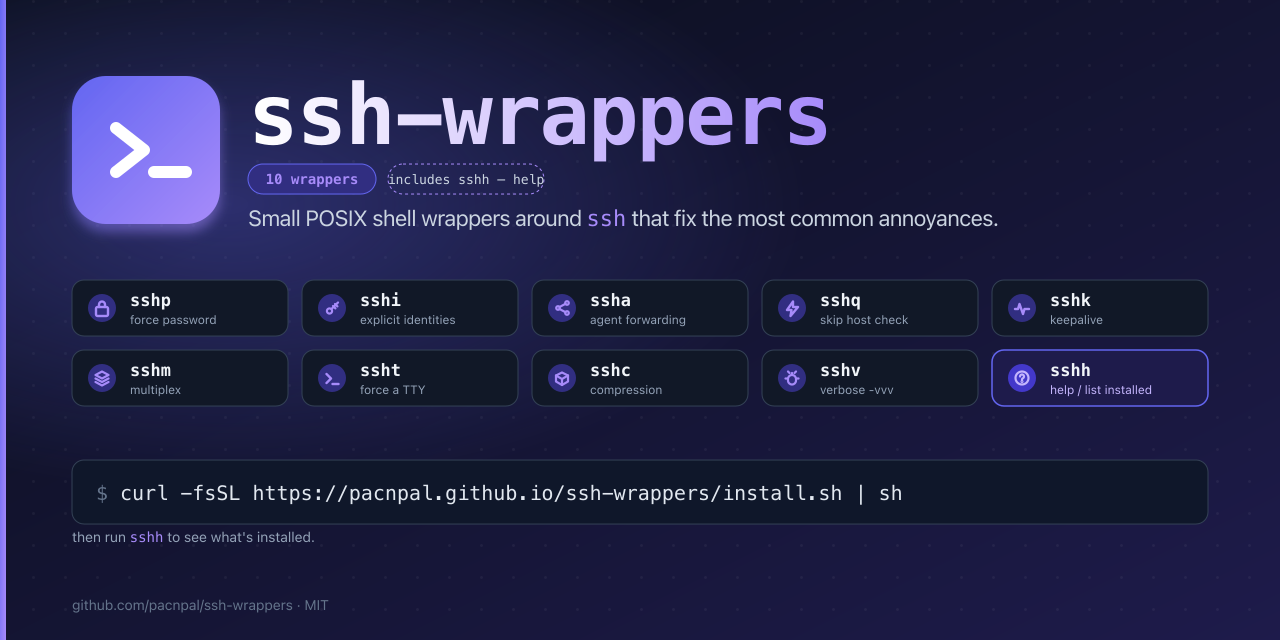
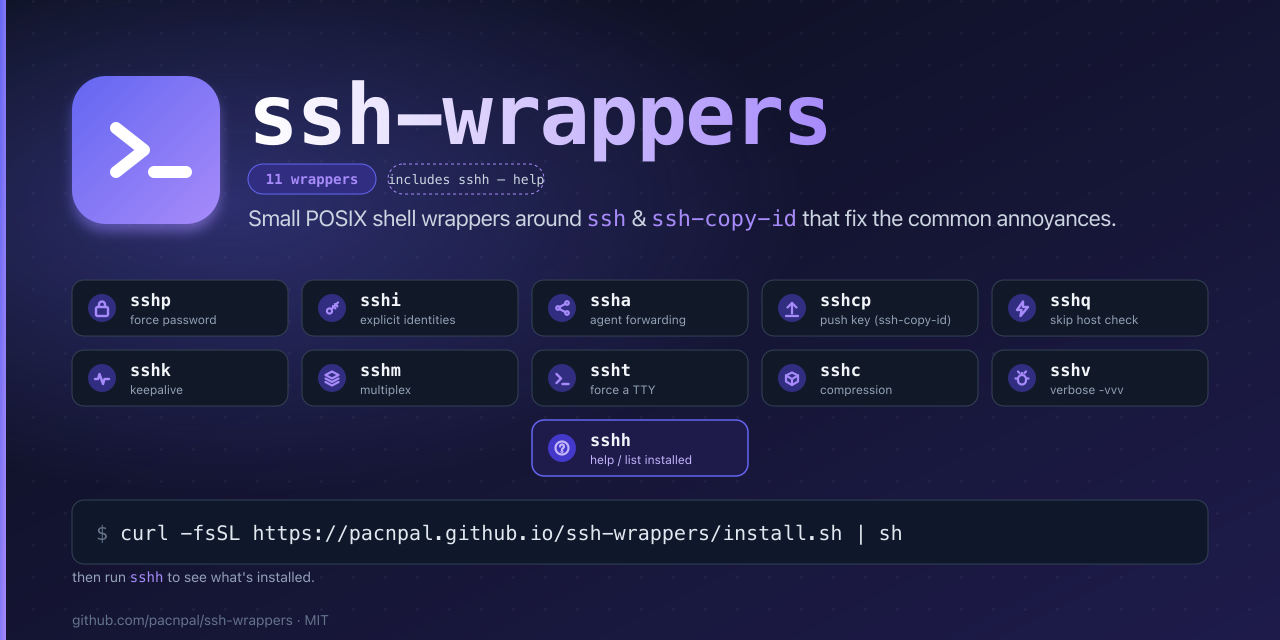
Update social card for 11 wrappers, document the step in CONTRIBUTING
Social-card.svg restructured to a 5+5+1 chip grid — auth row (sshp,
sshi, ssha, sshcp, sshq), conn/io/debug row, then sshh as a featured
centered chip in row 3. Pill text bumped to "11 wrappers", tagline
now mentions ssh-copy-id. Install bar / hint / footer slid down to
make room for row 3. PNG re-rendered with rsvg-convert.

CONTRIBUTING.md grows a section 6 with the full social-card workflow:
which SVG elements to touch, the chip XML template, the re-render
command, the dimension check, and the warning that this is the file
people forget — leaving the PNG stale silently breaks every OG preview.

diff --git a/CONTRIBUTING.md b/CONTRIBUTING.md
@@ -142,7 +142,49 @@ The landing page is hand-maintained HTML; there's no template. Be careful — th
 
 If you added a new category (rare — see "Pick a category" above), also update the `.cats` strip near the top of the body.
 
-### 6. `.github/workflows/shellcheck.yml`
+### 6. `assets/social-card.svg` + re-render `assets/social-card.png`
+
+This is the file most contributors forget. The social card is the 1280×640 image GitHub and Twitter show as the OG preview, and it visibly lists every wrapper as a chip — so missing it means a stale image ships everywhere the repo is linked.
+
+Edits to `social-card.svg`:
+
+1. **`<svg aria-label="…">`** — update the count and the "around ssh" phrase if you added support for a new underlying tool.
+2. **"N wrappers" pill** — the `<text>` inside the first pill at the top.
+3. **Tagline** — only if you've changed the framing (e.g. added `ssh-copy-id` as a second underlying tool, like `sshcp` did).
+4. **Chip grid** — add a chip. Current layout is 5+5+1: two full rows of 5 plus `sshh` as a featured centered chip on row 3. Each chip is `216×56` with a `14`-unit gap. A chip is:
+
+   ```xml
+   <g transform="translate(X, Y)">
+     <rect width="216" height="56" rx="12" fill="#111827" stroke="#334155" stroke-width="1"/>
+     <circle cx="30" cy="28" r="14" fill="#312e81"/>
+     <g transform="translate(22, 20)" fill="none" stroke="#a78bfa" stroke-width="2.4"
+        stroke-linecap="round" stroke-linejoin="round">
+       <!-- 16×16 icon paths here -->
+     </g>
+     <text x="58" y="26" font-family="ui-monospace, SF Mono, Menlo, monospace"
+           font-size="17" font-weight="700" fill="#f1f5f9">sshX</text>
+     <text x="58" y="44" font-size="12" fill="#94a3b8">short label</text>
+   </g>
+   ```
+
+   Adding a 12th wrapper breaks the 5+5+1 layout — you'll need to re-pack to 6+5+1, 4+4+4, or 6+6 (the last would let `sshh` rejoin the main grid). If you pick a layout that changes row count, slide `<!-- install command -->`, `<!-- post-install hint -->`, and the footer `<text>` down by the same delta so they don't collide with the new bottom row.
+
+   Don't reuse another wrapper's icon. Pick something semantically tied to what the wrapper does (sshcp uses an upload arrow → push-key motion). Keep paths within a 16×16 box so the existing inner-circle and translate offsets still apply.
+
+5. **Re-render the PNG.** The SVG is the source of truth; the PNG is what social previewers actually load. They cache aggressively, so an outdated PNG with a fresh SVG means stale previews for weeks.
+
+   ```sh
+   rsvg-convert -w 1280 -h 640 assets/social-card.svg -o assets/social-card.png
+   file assets/social-card.png   # must report: PNG image data, 1280 x 640
+   ```
+
+   Commit *both* the `.svg` and the regenerated `.png`. CI does not auto-render.
+
+6. **Eyeball the PNG.** Open it. Check the new chip lines up with the grid, the icon is visible at the rendered size (the icon is ~16×16 SVG units → ~16px at 1× output), the text isn't clipped, and nothing collides with the install bar or footer.
+
+`assets/logo.svg` and `assets/logo.png` do not need re-rendering — they have no text and no wrapper count.
+
+### 7. `.github/workflows/shellcheck.yml`
 
 No edits. It lints `install.sh` as-is. Don't add per-wrapper CI; the installer is the only shell file in the repo.
 
